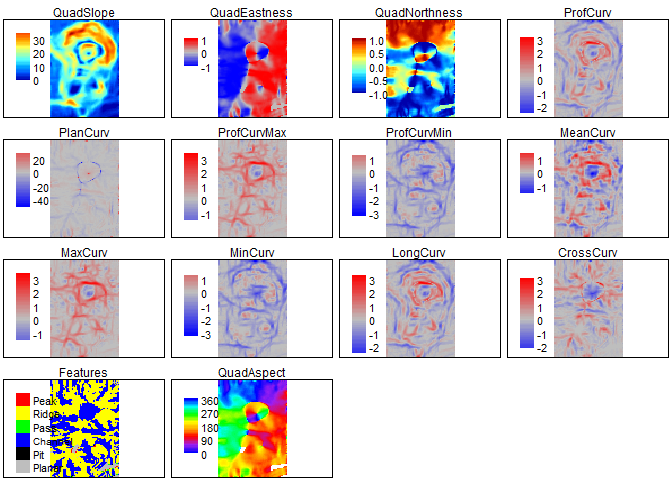
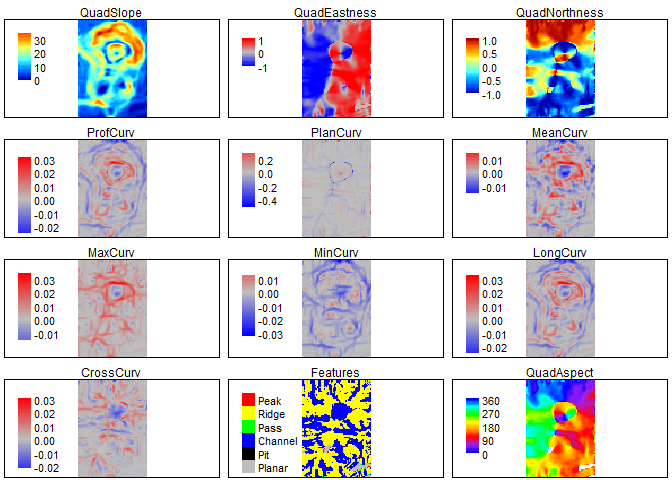
Major updates to curvature - remove ProfCurvMax and ProfCurvMin (they were the same as max_curv and min_curv - edit how masking was done (now uses when parameters d & e are 0 instead of when all values in window are the same) - Remove the 100 multiplier constant so that curvature is measured in 1/le

diff --git a/src/cpp_code.cpp b/src/cpp_code.cpp
@@ -89,11 +89,10 @@ NumericMatrix C_multiscale2(NumericMatrix r, IntegerVector w, NumericMatrix X, b
   
   //Z = aX2 + bY2 + cXY + dX + eY + f
   
-  NumericMatrix out = NumericMatrix(n_elem, 7);
-  colnames(out)= CharacterVector::create("a", "b", "c", "d", "e", "f", "mask");
+  NumericMatrix out = NumericMatrix(n_elem, 6);
+  colnames(out)= CharacterVector::create("a", "b", "c", "d", "e", "f");
   out.fill(NA_REAL);
-  out(_,6)=rep(0,100); //initialize mask with 0's
-  
+
   //NEED AT LEAST 6 POINTS TO CALCULATE BECAUSE NEED AS MANY POINTS AS PARAMETERS
   int thresh = 6;
   for(int i = min_row; i< max_row; ++i) {
@@ -121,7 +120,6 @@ NumericMatrix C_multiscale2(NumericMatrix r, IntegerVector w, NumericMatrix X, b
           out(curr_elem_idx, 2) = 0; //c
           out(curr_elem_idx, 3) = 0; //d
           out(curr_elem_idx, 4) = 0; //e
-          out(curr_elem_idx,6) = 1; //mask
           } else{
             NumericVector params = C_OLS_params(as<arma::mat>(X_trim), as<arma::mat>(Z_trim));
             out(curr_elem_idx, 5) =  params[0]; //f

diff --git a/README.md b/README.md
@@ -1,7 +1,7 @@
 README
 ================
 Alexander Ilich
-November 08, 2021
+November 10, 2021
 
 # MultiscaleDEM
 
@@ -41,8 +41,8 @@ install Rtools using the instructions found here:
 
 -   `WoodEvans` calculates slope, aspect, curvature, and morphometric
     features by fitting a quadratic surface to the focal window using
-    ordinary least squares (Wood, 1996). This is similar to
-    [r.param.scale in GRASS
+    ordinary least squares (Evans, 1980; Wood, 1996; Wilson et
+    al. 2007). This is similar to [r.param.scale in GRASS
     GIS](https://grass.osgeo.org/grass80/manuals/r.param.scale.html).
 
 ### Rugosity
@@ -160,6 +160,9 @@ Du Preez, C., 2015. A new arc–chord ratio (ACR) rugosity index for
 quantifying three-dimensional landscape structural complexity. Landscape
 Ecol 30, 181–192. <https://doi.org/10.1007/s10980-014-0118-8>
 
+Evans, I.S., 1980. An integrated system of terrain analysis and slope
+mapping. Zeitschrift f¨ur Geomorphologic Suppl-Bd 36, 274–295.
+
 Fleming, M.D., Hoffer, R.M., 1979. Machine processing of landsat MSS
 data and DMA topographic data for forest cover type mapping (No. LARS
 Technical Report 062879). Laboratory for Applications of Remote Sensing,
@@ -192,6 +195,11 @@ Bighorn Sheep in the Mojave Desert. The Journal of Wildlife Management
 
 Weiss, A., 2001. Topographic Position and Landforms Analysis. Presented
 at the ESRI user conference, San Diego, CA.
+
+Wilson, M.F., O’Connell, B., Brown, C., Guinan, J.C., Grehan, A.J.,
+2007. Multiscale Terrain Analysis of Multibeam Bathymetry Data for
+Habitat Mapping on the Continental Slope. Marine Geodesy 30, 3-35.
+<https://doi.org/10.1080/01490410701295962>
 
 Wood, J., 1996. The geomorphological characterisation of digital
 elevation models (Ph.D.). University of Leicester.
